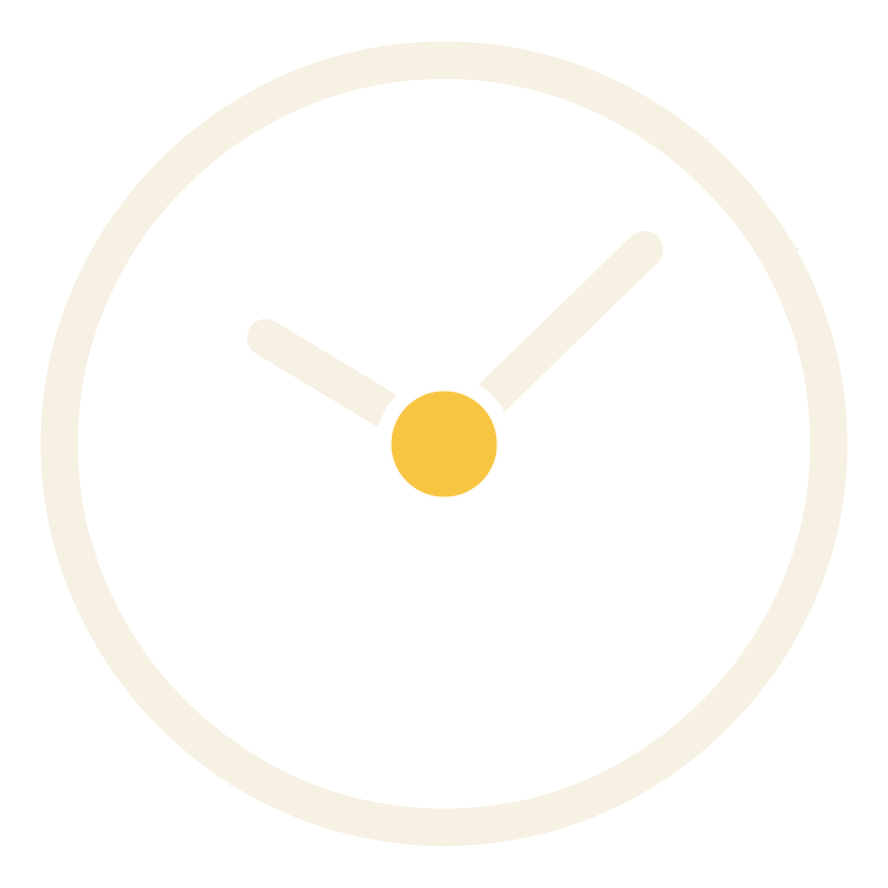
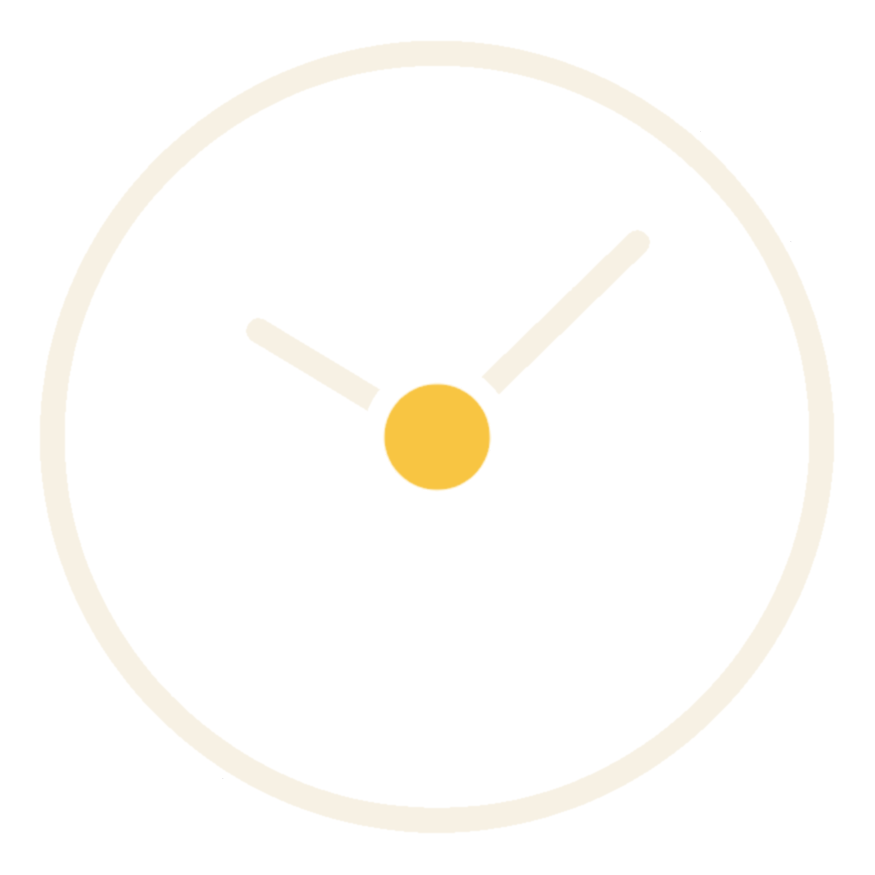
art(ingest): signed STROKE_DELTA — family bands all green
- normalize_strokes now signed: positive = thin, negative = dilate
  (grown pixels join the ink class so dark recolor follows; gold never
  consumed)
- cuts converge to a ~29e-3 optical band (slots are 20-28px — lighter
  reads invisible): 160% FAIL -> 12% PASS
- absence converges to ~22e-3: 37% FAIL -> 14% PASS
- keyed sheets vision-checked: bubble holes, hands/gap, nib outline and
  gold all intact after morphology

diff --git a/tools/art-gate/ingest.py b/tools/art-gate/ingest.py
@@ -58,30 +58,54 @@ MIN_ALPHA = 0.05
 # exact Euclidean morphology on the keyed alpha mask with a per-asset float
 # radius, then σ=0.7 re-fringe. EDT distances come in float rings — tune the
 # radius in 0.2 steps against tools/art-gate/measure.py, never by eye.
-# 01-students regen drew +39% heavier than its siblings (ratio 17.1e-3 vs
-# ~12.5 band) — thin it back into the ≤15% spread gate.
+# Sign: POSITIVE = thin by r px, NEGATIVE = dilate by |r| px (ink only —
+# gold fills and wash keep their coverage).
+#   01-students regen drew +39% heavier than siblings (17.1e-3 vs ~12.5
+#   band) -> thin back to the shipped 12.32. Cuts converge to a 30e-3
+#   optical band (icon slots are 20–28px — lighter reads invisible);
+#   absence family converges to 22e-3.
 STROKE_DELTA = {
     "01-students": 2.0,
+    "cut-1": -5.75,
+    "cut-2": -0.6,
+    "cut-3": 6.7,
+    "cut-4": 2.0,
+    "cut-5": 1.5,
+    "cut-6": -2.8,
+    "abs-1-404": 0.65,
+    "abs-2-session-expired": 0.25,
+    "abs-3-import-failed": -2.0,
+    "abs-4-no-results": 0.0,
 }
 
 
 def normalize_strokes(alpha, best_idx, r):
-    """Thin ink strokes by r px of exact-Euclidean ring distance.
+    """Signed exact-Euclidean morphology on the ink class (idx 0).
 
-    Only the ink class (idx 0) is touched — gold fills and the wash plane
-    keep their coverage; the σ=0.7 gaussian restores the anti-alias fringe
-    the binary erosion cut off.
+    r > 0: strip r distance rings from stroke edges (thin).
+    r < 0: grow |r| rings outward (dilate) — grown pixels join the ink
+    class so the recolor table follows them into dark. Gold (idx 1) is
+    never overwritten. σ=0.7 gaussian restores the AA fringe either way.
+    Returns (alpha, best_idx).
     """
-    if r <= 0:
-        return alpha
+    if r == 0:
+        return alpha, best_idx
     core = (best_idx == 0) & (alpha > 0.5)
     if not core.any():
-        return alpha
-    edt = distance_transform_edt(core)
-    keep = core & (edt > r)
-    out = np.where(best_idx == 0, 0.0, alpha)  # drop old ink core + fringe
-    out = np.where(keep, alpha, out)           # restore surviving core
-    return gaussian_filter(out, 0.7)
+        return alpha, best_idx
+    if r > 0:
+        edt = distance_transform_edt(core)
+        keep = core & (edt > r)
+        out = np.where(best_idx == 0, 0.0, alpha)  # drop old ink + fringe
+        out = np.where(keep, alpha, out)           # restore surviving core
+        return gaussian_filter(out, 0.7), best_idx
+    d = -r
+    edt_out = distance_transform_edt(~core)
+    ring = (~core) & (edt_out <= d) & (best_idx != 1)  # never consume gold
+    soft = np.clip(d - edt_out + 0.5, 0.0, 1.0)
+    out = np.where(ring, soft, alpha)
+    new_idx = np.where(ring, 0, best_idx).astype(np.int8)
+    return gaussian_filter(out, 0.7), new_idx
 
 
 def process(src_path, stem, light_dir, dark_dir):
@@ -114,7 +138,7 @@ def process(src_path, stem, light_dir, dark_dir):
     alpha = np.where(is_bg | (best_a < MIN_ALPHA), 0.0, best_a)
     # snap solid ink/gold cores, keep AA fringe and the wash's soft ramp
     alpha = np.where((best_idx != 2) & (alpha > 0.7), 1.0, alpha)
-    alpha = normalize_strokes(alpha, best_idx, STROKE_DELTA.get(stem, 0.0))
+    alpha, best_idx = normalize_strokes(alpha, best_idx, STROKE_DELTA.get(stem, 0.0))
 
     light_rgb = np.stack([INK_L, GOLD_L, WASH_L])[best_idx].astype(np.uint8)
     dark_rgb = np.stack([INK_D, GOLD_D, WASH_D])[best_idx].astype(np.uint8)
